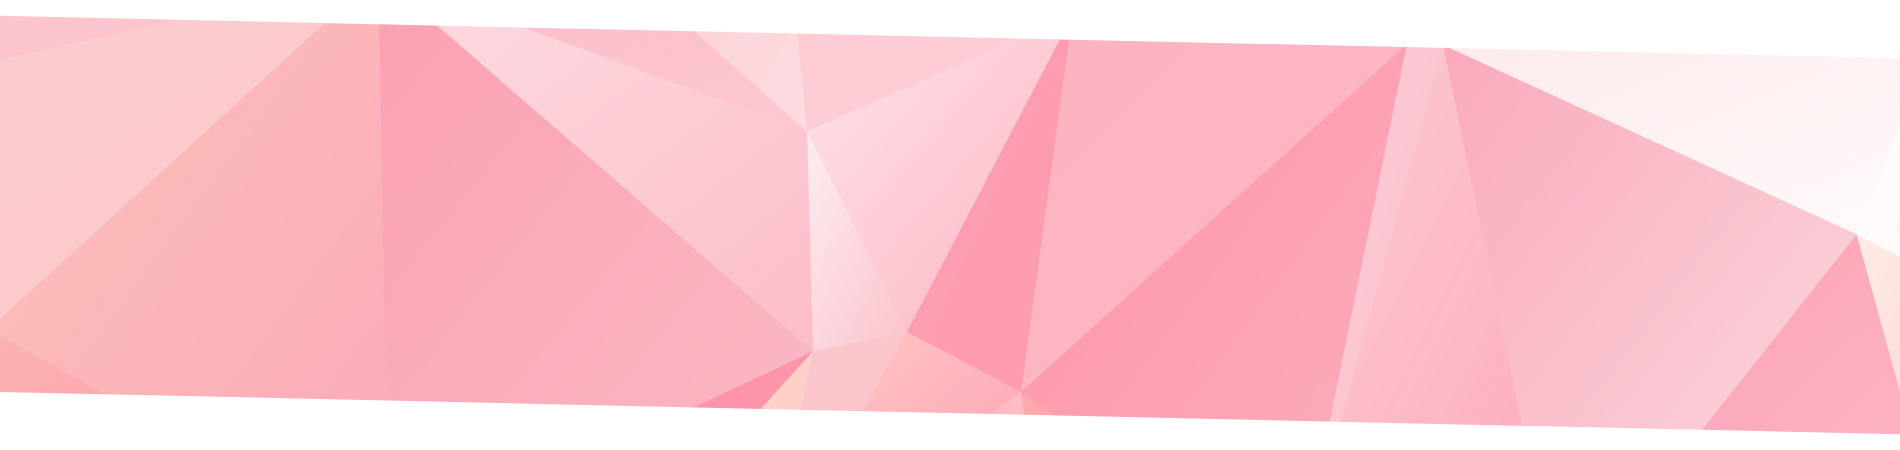
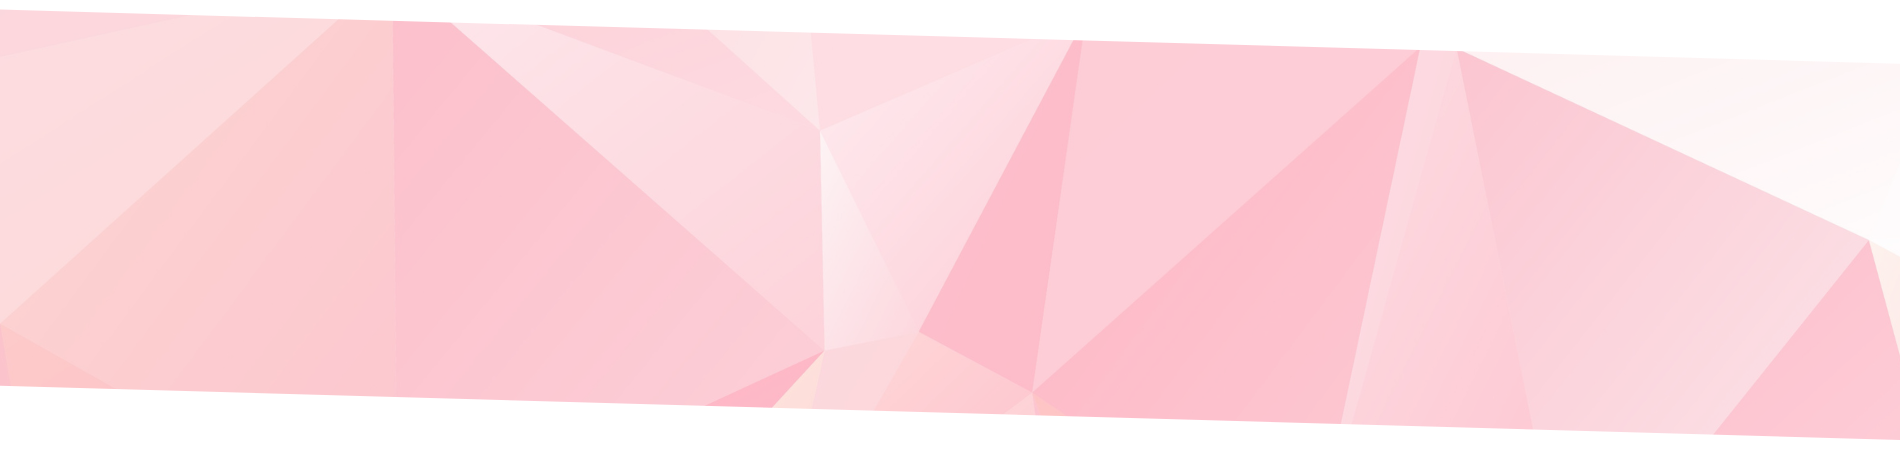
Styles: add bg to footer and update position of other elements

diff --git a/src/components/Background.js b/src/components/Background.js
@@ -2,15 +2,30 @@ import React from 'react';
 import styles from '../styles/Background.module.scss';
 import Geometric from '../assets/images/elements/geometric-bg.png';
 import Pink from '../assets/images/elements/pink-bg.png';
-import Dotted from '../assets/images/dotted-bg.png';
+import Daisys from '../assets/images/elements/daisys-bg.png';
 
 const Background = ({ background, position }) => {
+  const bgOptions = {
+    'Geometric': Geometric,
+    'Pink': Pink,
+    'Daisys': Daisys
+  }
+
+  const containerStyle = {
+    top: position
+  }
+
   const bgStyle = {
-    backgroundImage: `url(${background === 'Pink' ? Pink : Geometric})`
+    backgroundImage: `url(${bgOptions[background]})`
+  }
+
+  if (background === 'Daisys') {
+    bgStyle["borderRadius"] = "50% 50% 0 0 / 50%"
+    containerStyle.height = 299;
   }
 
   return (
-    <div className={styles["bg-container"]} style={{top: position}}>
+    <div className={styles["bg-container"]} style={containerStyle}>
       <div className={styles.bg} style={bgStyle}/>
     </div>
     )

diff --git a/src/styles/Elements.module.scss b/src/styles/Elements.module.scss
@@ -1,13 +1,13 @@
 .Daisy {
   position: absolute;
   top: 47%;
-  right: 28%;
+  right: 24%;
 }
 
 .Sparckles {
   position: absolute;
-  top: 23%;
-  right: 39%;
+  top: 27%;
+  right: 37%;
   img {
     transform: scaleX(-1);
     height: 130px;
@@ -16,8 +16,8 @@
 
 .SmallDaisy {
   position: absolute;
-  top: 30%;
-  right: 22%;
+  top: 28%;
+  right: 19%;
   height: 50%;
   img {
     height: 50%;
@@ -28,7 +28,7 @@
 .SparcklesLeft {
   position: absolute;
   top: 52%;
-  right: 54%;
+  right: 51%;
   img {
     height: 120px;
   }
@@ -36,8 +36,8 @@
 
 .SparcklesRight {
   position: absolute;
-  top: 61%;
-  right: 18%;
+  top: 58%;
+  right: 15%;
   img {
     height: 120px;
   }

diff --git a/src/containers/App.js b/src/containers/App.js
@@ -28,6 +28,7 @@ function App() {
       < Background background="Geometric" position="3575px"/>
       < Skills />
       < Contact contactLinks={contactLinks} />
+      < Background background="Daisys" position="4845px"/>
       < Footer />
     </div>
   );

diff --git a/src/styles/Navbar.module.scss b/src/styles/Navbar.module.scss
@@ -11,7 +11,7 @@
   display: flex;
   align-items: center;
   justify-content: space-between;
-  border-bottom: solid 3px;
+  box-shadow: 2px 2px 5px 0px rgba(227, 227, 227, 0.67);
   transition: top 0.3s;
   .navbar-links {
     a {
